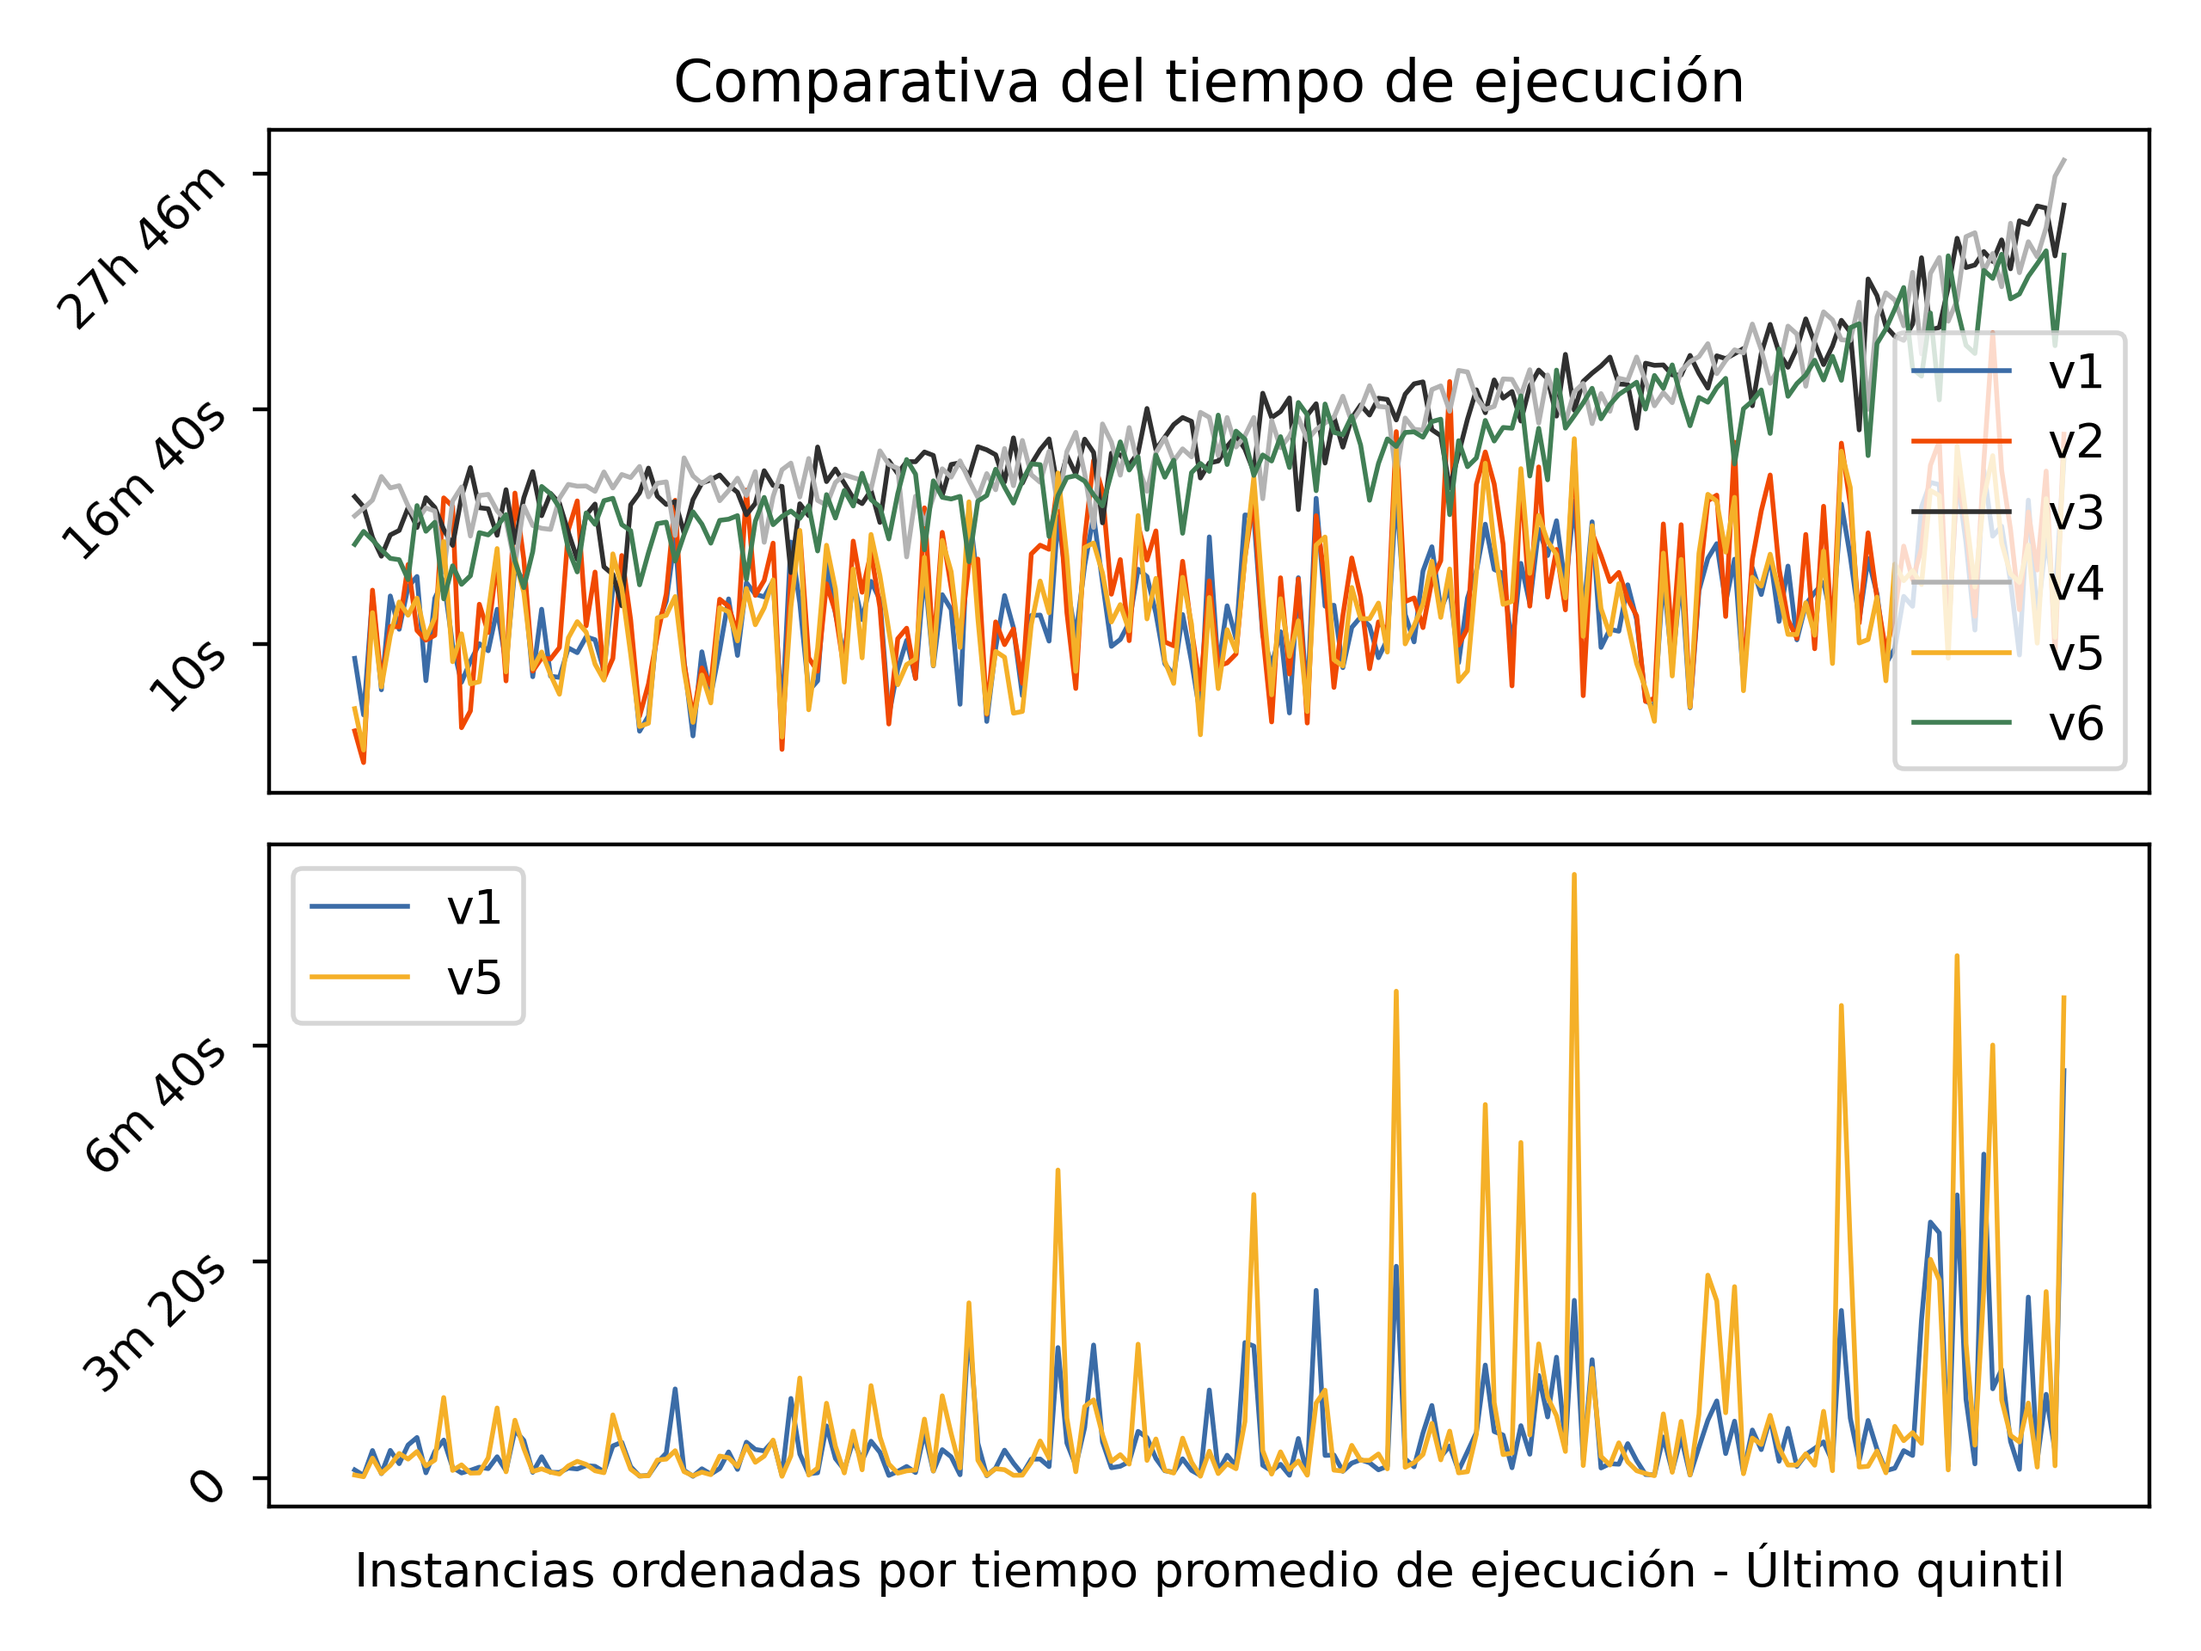
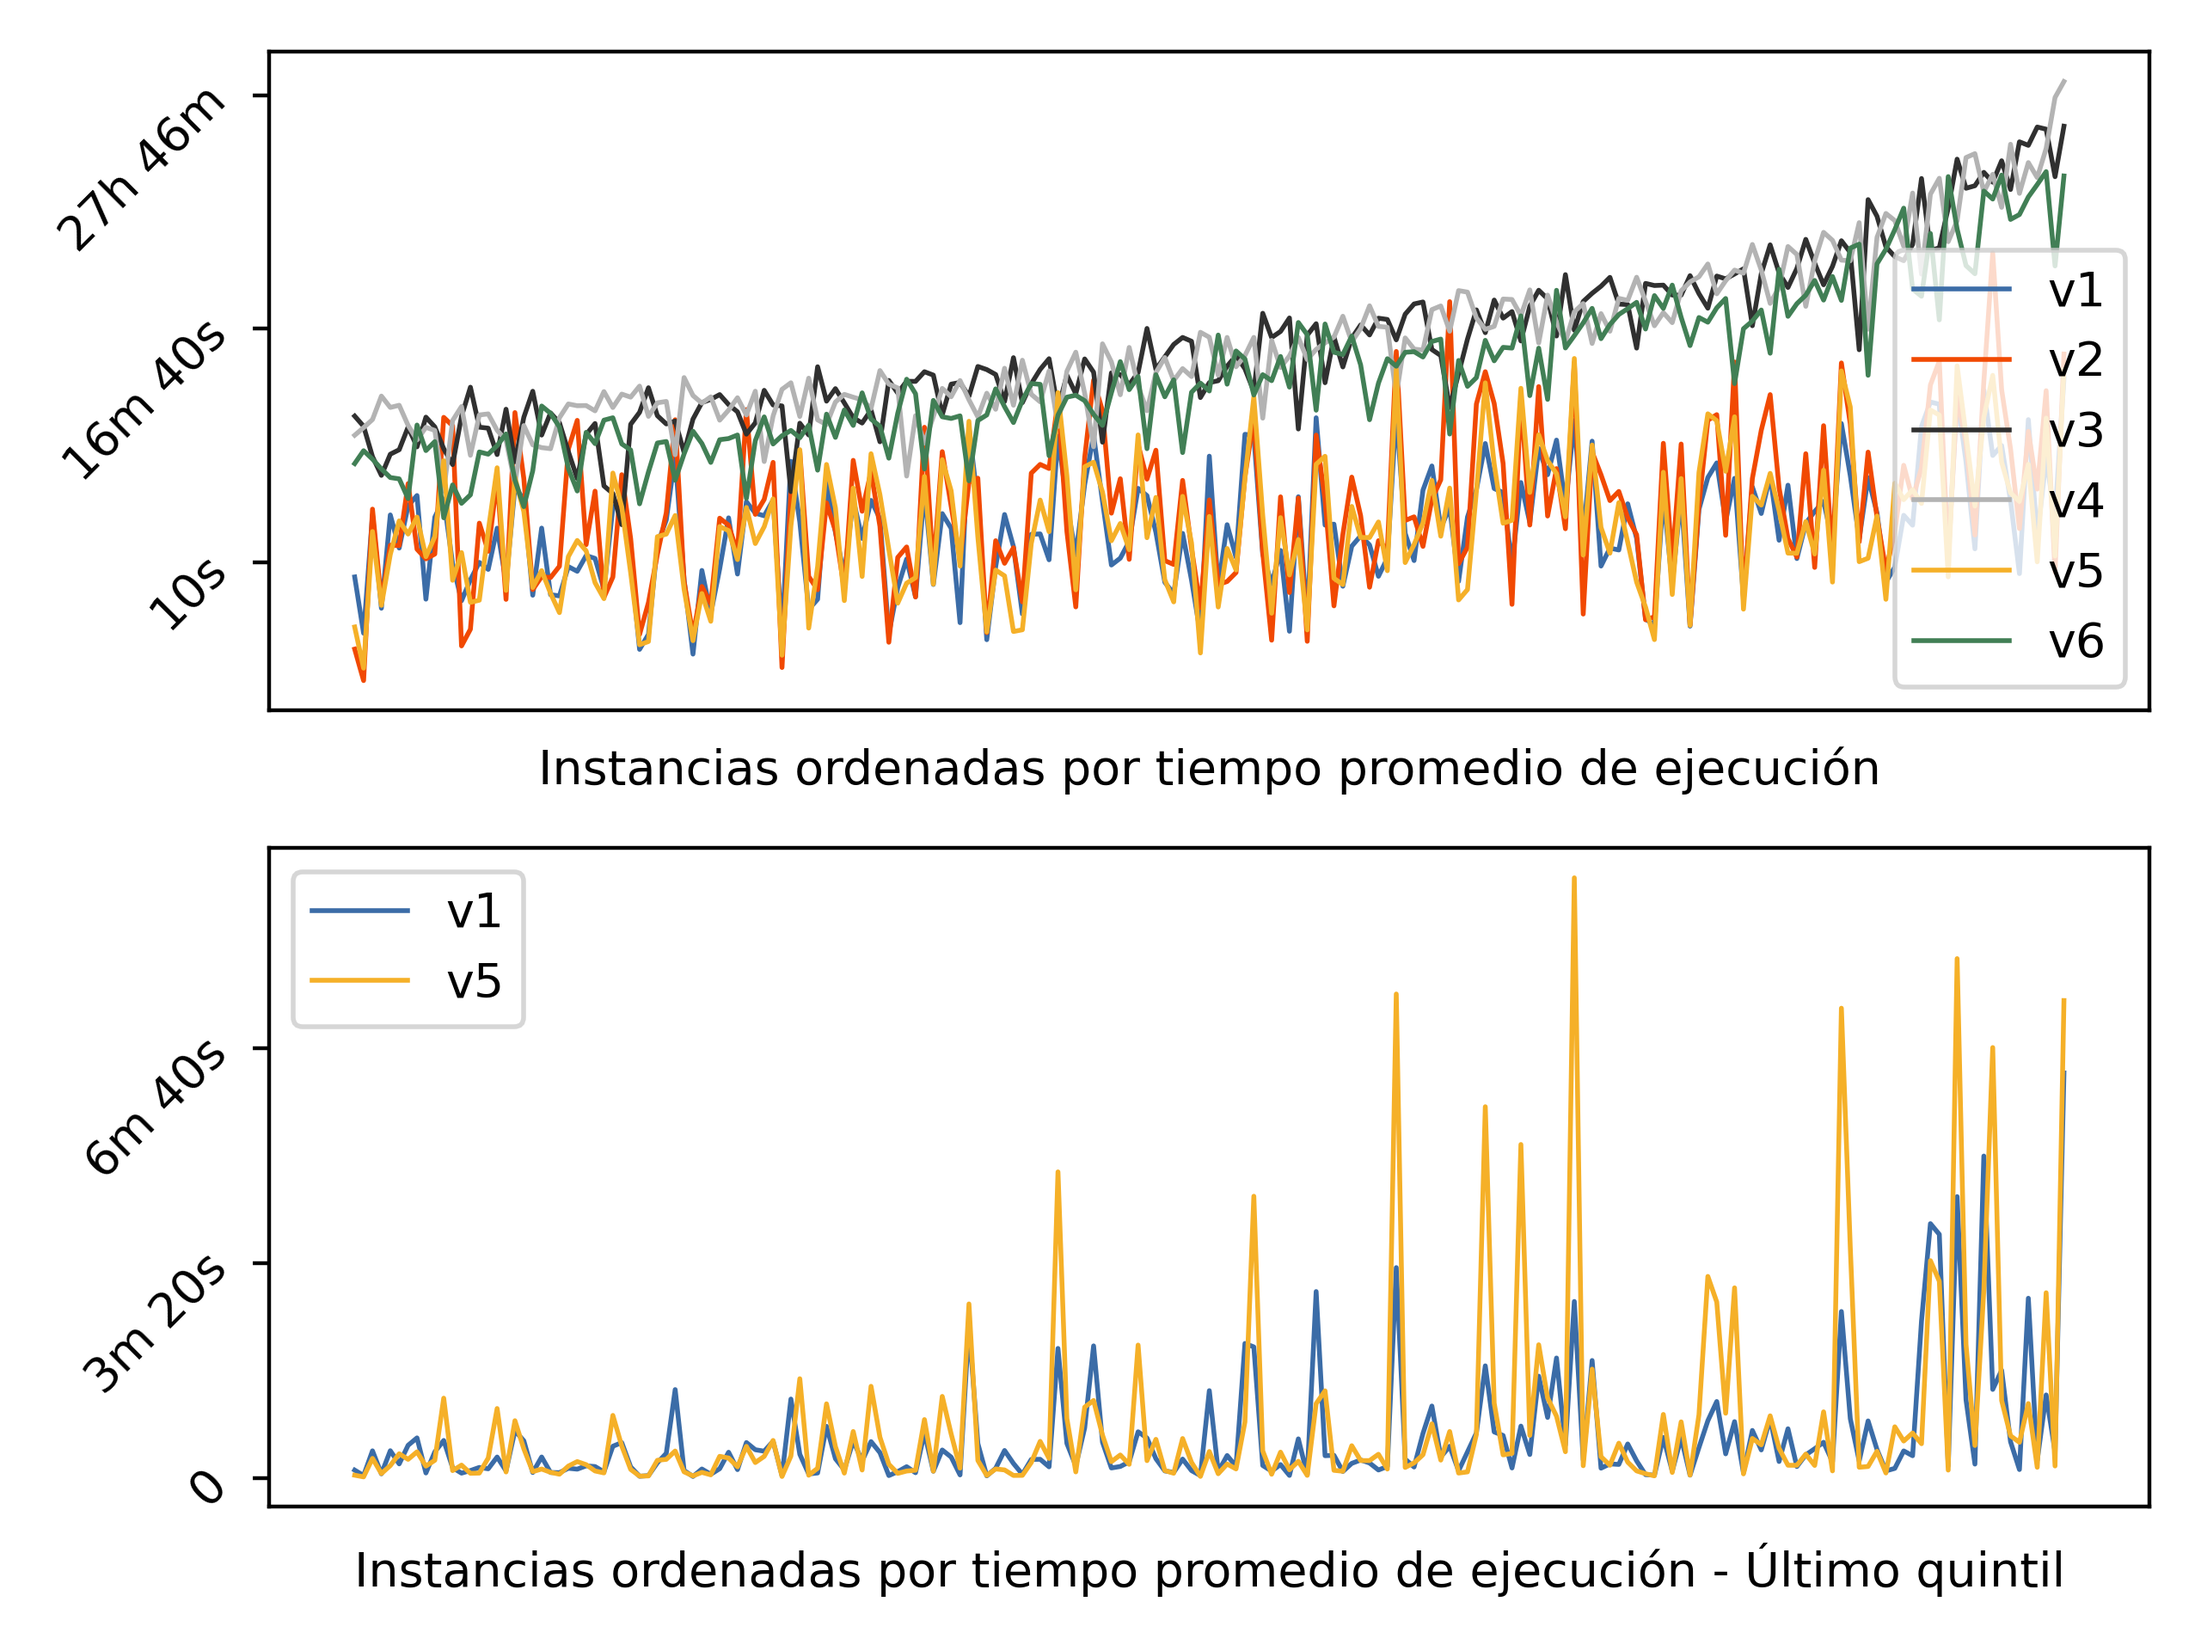
remove titles from some graphics

diff --git a/scripts/processruns.py b/scripts/processruns.py
@@ -147,7 +147,7 @@ def draw_time_comparison(run_data, output_prefix, draw_bests_count=2, skip_bests
             ax2.plot(*plot_args, **plot_kwargs)
 
     # Hide x labels because they make no sense
-    ax.set_title('Comparativa del tiempo de ejecución')
+    # ax.set_title('Comparativa del tiempo de ejecución')
     ax.set_yscale('log')
 
     for curr_ax in axes:
@@ -157,7 +157,12 @@ def draw_time_comparison(run_data, output_prefix, draw_bests_count=2, skip_bests
         curr_ax.xaxis.set_major_formatter(lambda x, pos: '')
         curr_ax.legend()
 
-    axes[-1].set_xlabel(f'Instancias ordenadas por tiempo promedio de ejecución - Último quintil')
+    label_prefix = 'Instancias ordenadas por tiempo promedio de ejecución'
+
+    if len(axes) > 1:
+        axes[0].set_xlabel(label_prefix)
+
+    axes[-1].set_xlabel(f'{label_prefix} - Último quintil')
 
     fig.tight_layout()
     fig.savefig(f'{output_prefix}run_time_comparison.png', **savefig_kwargs)
@@ -211,7 +216,7 @@ def draw_quintile_time_comparison(run_data, output_prefix):
     ax.set_xticklabels([f'Q{idx}' for idx in quintiles])
     ax.legend()
 
-    ax.set_title('Comparativa del tiempo de ejecución por quintil')
+    # ax.set_title('Comparativa del tiempo de ejecución por quintil')
     ax.set_xlabel('Versón de la formulación y quintil')
     ax.set_ylabel('Tiempo de ejecución promedio')
 
